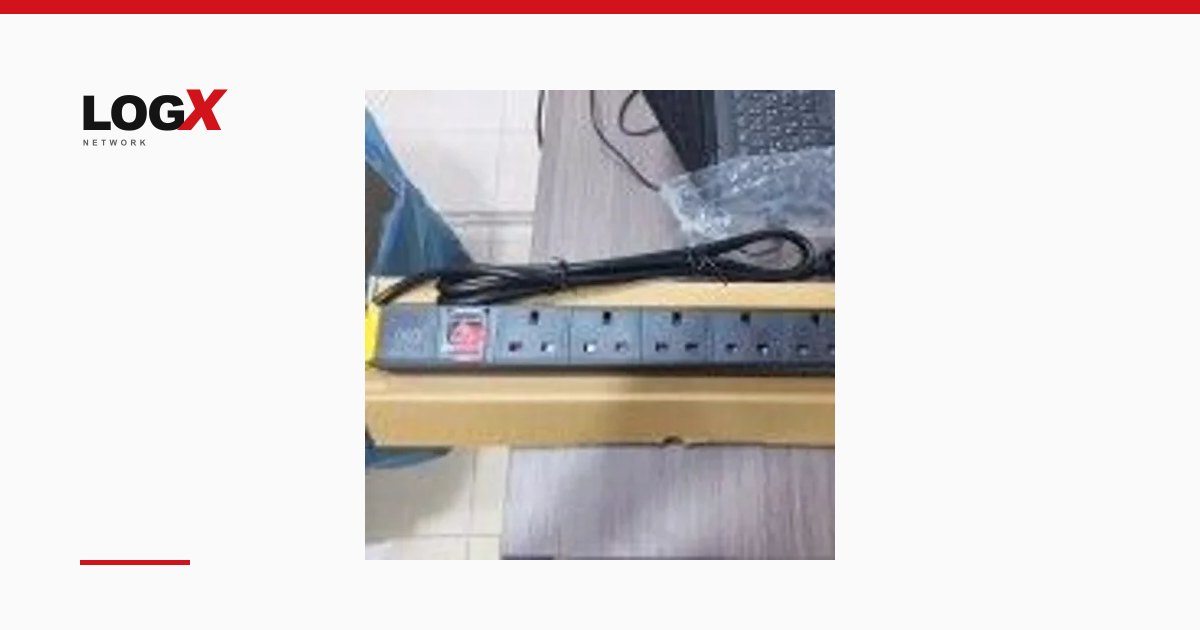
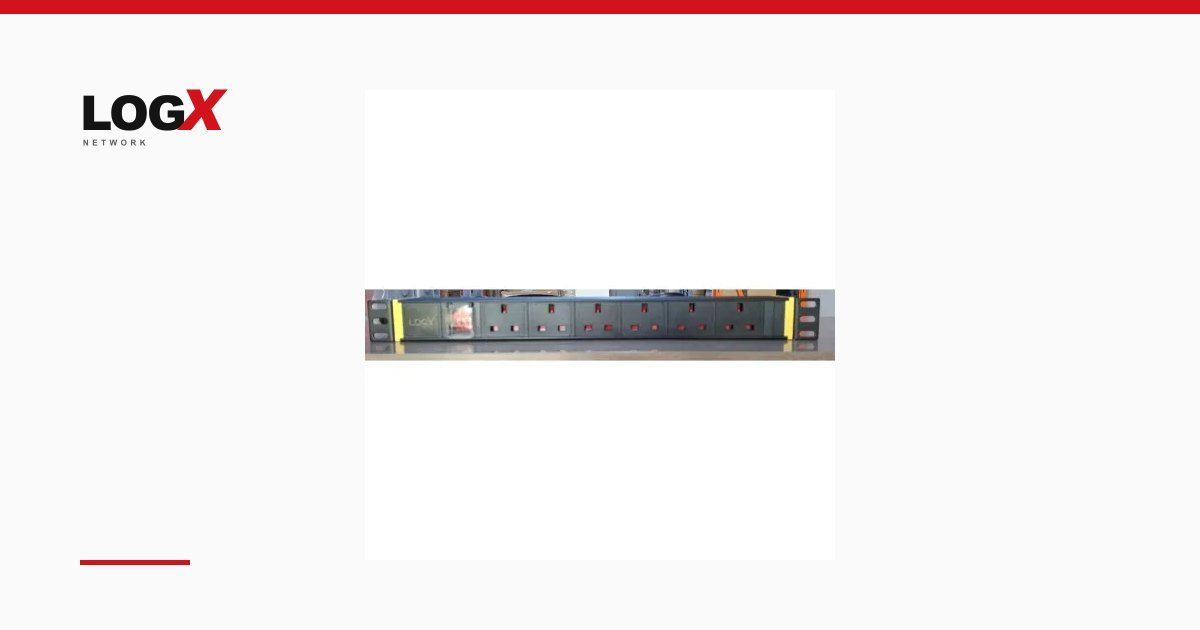
Use the re-shot photographs, and key the photo map by filename
The new shots of the media converter, both terminal boxes and the PDU
replace the old in-situ ones, including the 8 port box whose logo could
not be fixed by rotation.

Adding those five files exposed a fault in the map: it was keyed by the
file's index in the sorted source folder, so the new names sorting into
positions 6-10 shifted every later index and silently re-pointed most of
the catalogue at the wrong product. The map is now keyed by filename, and
a mapped file that is missing from the folder fails the run instead of
leaving a product without photography. The rebuilt map was verified
against the previous data/photo-sources.json: only the four re-shot
families changed source.

The new photographs are in-situ, against warehouse racking. Background
cutout was tried and abandoned -- these products are dark and the blurred
racking contains regions darker still, so no luminance threshold
separates them without eating the lit top of the box or keeping half the
shelf. Instead the map carries a fractional crop per photo that frames
the product so the background falls outside it. A cropped photo is fitted
and padded rather than cropped square again, which would otherwise zoom
into a fragment of a wide subject like the 1U PDU.

Changed region(s): [[0.2775, 0.1206, 0.7092, 0.9048]]

diff --git a/README.md b/README.md
@@ -37,10 +37,24 @@ rotation, decides whether the shot sits on a seamless backdrop or in-situ, and t
   the product back to square; or
 - keeps the scene and squares it off around the subject.
 
-`scripts/photo-map.mjs` maps part numbers to photographs. Where a photograph shows a legible
-part-number label it is assigned to that exact part; families without their own labelled shot
-reuse an unlabelled photograph of the same product line rather than a mismatched label.
-Every run writes `data/photo-sources.json` recording which original file produced which asset.
+`scripts/photo-map.mjs` maps part numbers to photographs, **keyed by filename**. It also
+carries two per-photo corrections:
+
+- `rotations` — extra rotation for originals shot on their side or upside down, so the
+  printed LOGX reads horizontally.
+- `crops` — a fractional crop for in-situ shots, framing the product so the warehouse behind
+  it falls outside the frame. A cropped photo is fitted and padded rather than re-cropped
+  square, which would zoom into a fragment of a wide subject like the PDU.
+
+Background *cutout* is deliberately not attempted. These products are dark and the blurred
+racking behind them contains regions darker still, so no luminance threshold separates the
+two without eating the product or keeping half the shelf; cropping is the honest tool.
+
+Where a photograph shows a legible part-number label it is assigned to that exact part;
+families without their own labelled shot reuse an unlabelled photograph of the same product
+line rather than a mismatched label. Every run writes `data/photo-sources.json` recording
+which original file produced which asset, and a mapped file that is missing from the source
+folder fails the run rather than silently leaving a product without photography.
 
 The originals are large and stay out of the repository (see `.gitignore`) — the processed
 WebP files are committed, so a clone builds without them. You only need the source folder to
